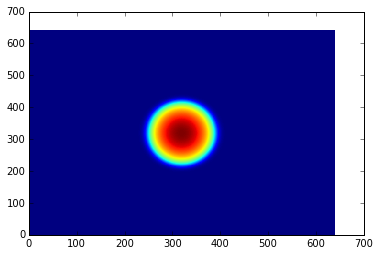
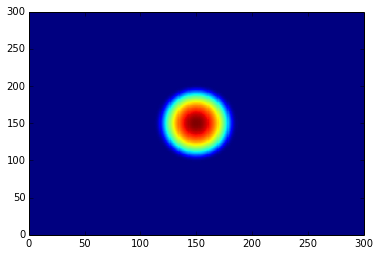
Python and API tutorials updated to the new code.

diff --git a/src/Python/doc/source/examples.rst b/src/Python/doc/source/examples.rst
@@ -11,32 +11,25 @@ The following code block gives a simple example of initializing a state and calc
     import numpy as np
     from trottersuzuki import *
 
-    # create a 2D lattice
-    grid = Lattice(256, 15, 15)
-
-    # define an symmetric harmonic potential with unit frequecy
-    potential = HarmonicPotential(grid, 1, 1)
-
-    # define the Hamiltonian:
+    grid = Lattice(256, 15)  # create a 2D lattice
+    
+    potential = HarmonicPotential(grid, 1, 1)  # define an symmetric harmonic potential with unit frequecy
     particle_mass = 1.
-    hamiltonian = Hamiltonian(grid, potential, particle_mass)
+    hamiltonian = Hamiltonian(grid, potential, particle_mass)      # define the Hamiltonian:
 
-    # define gaussian wave function state: we choose the ground state of the Hamiltonian
     frequency = 1
-    state = GaussianState(grid, frequency)
+    state = GaussianState(grid, frequency)  # define gaussian wave function state: we choose the ground state of the Hamiltonian
 
-    # define the solver
     time_of_single_iteration = 1.e-4
-    solver = Solver(grid, state, hamiltonian, time_of_single_iteration)
+    solver = Solver(grid, state, hamiltonian, time_of_single_iteration)  # define the solver
 
     # get some expected values from the initial state
     print "norm: ", solver.get_squared_norm()
     print "Total energy: ", solver.get_total_energy()
     print "Kinetic energy: ", solver.get_kinetic_energy()
 
-    # evolve the state of 1000 iterations
     number_of_iterations = 1000
-    solver.evolve(number_of_iterations)
+    solver.evolve(number_of_iterations)  # evolve the state of 1000 iterations
 
     # get some expected values from the evolved state
     print "norm: ", solver.get_squared_norm()
@@ -52,38 +45,57 @@ Imaginary time evolution to approximate the ground-state energy
     import numpy as np
     from trottersuzuki import *
 
-    # create a 2D lattice
-    grid = Lattice(256, 15, 15)
+    grid = Lattice(256, 15)  # create a 2D lattice
 
-    # define an symmetric harmonic potential with unit frequecy
-    potential = HarmonicPotential(grid, 1, 1)
-
-    # define the Hamiltonian:
+    potential = HarmonicPotential(grid, 1, 1)  # define an symmetric harmonic potential with unit frequecy
     particle_mass = 1.
-    hamiltonian = Hamiltonian(grid, potential, particle_mass)
+    hamiltonian = Hamiltonian(grid, potential, particle_mass)  # define the Hamiltonian:
 
-    # define gaussian wave function state: we choose the ground state of the Hamiltonian
     frequency = 3
-    state = GaussianState(grid, frequency)
+    state = GaussianState(grid, frequency)  # define gaussian wave function state: we choose the ground state of the Hamiltonian
 
-    # define the solver
     time_of_single_iteration = 1.e-4
-    solver = Solver(grid, state, hamiltonian, time_of_single_iteration)
+    solver = Solver(grid, state, hamiltonian, time_of_single_iteration)  # define the solver
 
     # get some expected values from the initial state
     print "norm: ", solver.get_squared_norm()
     print "Total energy: ", solver.get_total_energy()
     print "Kinetic energy: ", solver.get_kinetic_energy()
 
-    # evolve the state of 40000 iterations
     number_of_iterations = 40000
     imaginary_evolution = true
-    solver.evolve(number_of_iterations, imaginary_evolution)
+    solver.evolve(number_of_iterations, imaginary_evolution)      # evolve the state of 40000 iterations
 
     # get some expected values from the evolved state
     print "norm: ", solver.get_squared_norm()
     print "Total energy: ", solver.get_total_energy()
     print "Kinetic energy: ", solver.get_kinetic_energy()
+
+
+Imprinting of a vortex in a Bose-Einstein Condensate
+----------------------------------------------------
+
+    import numpy as np
+    import trottersuzuki as ts
+
+    grid = ts.Lattice(256, 15)  # create a 2D lattice
+    
+    potential = HarmonicPotential(grid, 1, 1)  # define an symmetric harmonic potential with unit frequecy
+    particle_mass = 1.
+    coupling_intra_particle_interaction = 100.
+    hamiltonian = Hamiltonian(grid, potential, particle_mass, coupling_intra_particle_interaction)  # define the Hamiltonian:
+    
+    frequency = 1
+    state = GaussianState(grid, frequency)  # define gaussian wave function state: we choose the ground state of the Hamiltonian
+    def vortex(x, y):  # vortex to be imprinted
+        z = x + 1j*y
+        angle = np.angle(z)
+        return np.exp(1j * angle)
+    
+    state.imprint(vortex)  # imprint the vortex on the condensate
+    
+    time_of_single_iteration = 1.e-4
+    solver = Solver(grid, state, hamiltonian, time_of_single_iteration)  # define the solver
 
 
 Dark Soliton Generation in Bose-Einstein Condensate using Phase Imprinting
@@ -96,108 +108,31 @@ This example simulates the evolution of a dark soliton in a Bose-Einstein Conden
     import numpy as np
     import trottersuzuki as ts
     from matplotlib import pyplot as plt
-
-
-    def get_external_potential(dim):
-        """Helper function to define external potential.
-        """
-        def ext_pot(_x, _y):
-            x = (_x - dim*0.5) * delta_x
-            y = (_y - dim*0.5) * delta_y
-            w_x = 1
-            w_y = 1 / np.sqrt(2)
-            return 0.5 * (w_x*w_x * x*x + w_y*w_y * y*y)
-
-        potential = np.zeros((dim, dim))
-        for y in range(0, dim):
-            for x in range(0, dim):
-                potential[y, x] = ext_pot(x, y)
-        return potential
-
-    # lattice parameters
-    dim = 640			# number of grid points at the edge
-    length = 50.			# physics length of the lattice
-    delta_x = length / dim
-    delta_y = length / dim
-
-    # Hamiltonian parameter
-    particle_mass = 1
-    scattering_lenght_2D = 5.662739242e-5
-    num_particles = 1700000
-    coupling_const = 4. * np.pi * scattering_lenght_2D * num_particles
-
-    external_potential = get_external_potential(dim)
-
-    ####################################
-    # Ground state approximation
-    ####################################
-
-    # initial state
-    p_real = np.ones((dim, dim))
-    p_imag = np.zeros((dim, dim))
-    for y in range(dim):
-        for x in range(dim):
-            p_real[y, x] = 1./length
-
-    Norm2 = ts.calculate_norm2(p_real, p_imag, delta_x, delta_y)
-    print(Norm2)
-
-    # evolution variables
-    iterations = 18000
-    delta_t = 1.e-4
-
-    # launch evolution
-    ts.evolve(p_real, p_imag, particle_mass, external_potential, delta_x, delta_y,
-              delta_t, iterations, coupling_const=coupling_const, imag_time=True)
-
-    Norm2 = ts.calculate_norm2(p_real, p_imag, delta_x, delta_y)
-    print(Norm2)
-
-    heatmap = plt.pcolor(p_real)
+    
+    grid = ts.Lattice(300, 50.)  # # create a 2D lattice
+    
+    potential = ts.HarmonicPotential(grid, 1., 1./np.sqrt(2.))  # create an harmonic potential
+    coupling = 1.2097e3
+    hamiltonian = ts.Hamiltonian(grid, potential, 1., coupling)  # create the Hamiltonian
+    
+    state = ts.GaussianState(grid, 0.05)  # create the initial state
+    solver = ts.Solver(grid, state, hamiltonian, 1.e-4)  # initialize the solver
+    solver.evolve(10000, True)  # evolve the state towards the ground state
+    
+    density = state.get_particle_density()
+    plt.pcolor(density)  # plot the particle denisity
     plt.show()
-
-    ####################################
-    # Phase imprinting
-    ####################################
-
-    a = 1.98128
-    theta = 1.5 * np.pi
-
-    for y in range(dim):
-        for x in range(dim):
-            tmp_real = np.cos(theta * 0.5 * (1.+np.tanh(-a * (x-dim/2.)*delta_x)))
-            tmp_imag = np.sin(theta * 0.5 * (1.+np.tanh(-a * (x-dim/2.)*delta_x)))
-            tmp = p_real[y, x]
-            p_real[y, x] = tmp_real * tmp - tmp_imag * p_imag[y, x]
-            p_imag[y, x] = tmp_real * p_imag[y, x] + tmp_imag * tmp
-
-    np.savetxt('InistatePhaseImprinted_real.dat', p_real, delimiter=' ')
-    np.savetxt('InistatePhaseImprinted_imag.dat', p_imag, delimiter=' ')
-
-    heatmap = plt.pcolor(p_real)
-    plt.show()
-
-    ####################################
-    # Real time evolution
-    ####################################
-
-    # evolution variables
-    iterations = 2000
-    delta_t = 5.e-5
-    kernel_type = 0
-
-    # launch evolution
-    ts.evolve(p_real, p_imag, particle_mass, external_potential,
-              delta_x, delta_y, delta_t, iterations, coupling_const=coupling_const)
-
-    # calculate particle density
-    norm_2 = np.ones((dim, dim))
-    for y in range(dim):
-        for x in range(dim):
-            norm_2[y, x] = (p_real[y, x] * p_real[y, x] +
-                            p_imag[y, x] * p_imag[y, x]) * num_particles
-
-    heatmap = plt.pcolor(norm_2)
+    
+    def dark_soliton(x,y):  # define phase imprinting that will create the dark soliton
+        a = 1.98128
+        theta = 1.5*np.pi
+        return np.exp(1j* (theta * 0.5 * (1. + np.tanh(-a * x))))
+    
+    state.imprint(dark_soliton)  # phase imprinting
+    solver.evolve(1000)  # perform a real time evolution
+    
+    density = state.get_particle_density()
+    plt.pcolor(density)  # plot the particle denisity
     plt.show()
 
 The results are the following plots:
@@ -205,5 +140,3 @@ The results are the following plots:
 .. image:: figures/bec1.png
 
 .. image:: figures/bec2.png
-
-.. image:: figures/bec3.png

diff --git a/doc/tutorial.md b/doc/tutorial.md
@@ -63,7 +63,7 @@ This example uses all cores on a single computer to calculate the total energy a
 ~~~~~~~~~~~~~~~{.cpp}
 double particle_mass = 1.;
 int dimension = 500.;
-double length_x = double(dimension), length_y = double(dimension);
+double length = double(dimension);
 double delta_t = 0.01;
 int iterations  = 100;
 ~~~~~~~~~~~~~~~
@@ -71,7 +71,7 @@ int iterations  = 100;
 The next step is the define the lattice, the state, and the Hamiltonian:
 
 ~~~~~~~~~~~~~~~{.cpp}
-Lattice *grid = new Lattice(dimension, length_x, length_y);
+Lattice *grid = new Lattice(dimension, length);
 State *state = new SinusoidState(grid, 1, 1);
 Hamiltonian *hamiltonian = new Hamiltonian(grid, NULL, particle_mass);
 ~~~~~~~~~~~~~~~
@@ -115,11 +115,11 @@ The following file, `simple_example.cpp`, summarizes the above:
 int main(int argc, char** argv) {
     double particle_mass = 1.;
     int dimension = 500.;
-    double length_x = double(dimension), length_y = double(dimension);
+    double length = double(dimension);
     double delta_t = 0.01;
     int iterations  = 100;
 
-    Lattice *grid = new Lattice(dimension, length_x, length_y);
+    Lattice *grid = new Lattice(dimension, length);
     State *state = new SinusoidState(grid, 1, 1);
     Hamiltonian *hamiltonian = new Hamiltonian(grid, NULL, particle_mass);
     Solver *solver = new Solver(grid, state, hamiltonian, delta_t);
@@ -170,11 +170,11 @@ int main(int argc, char** argv) {
 #endif  
     double particle_mass = 1.;
     int dimension = 500.;
-    double length_x = double(dimension), length_y = double(dimension);
+    double length = double(dimension);
     double delta_t = 0.01;
     int iterations  = 100;
 
-    Lattice *grid = new Lattice(dimension, length_x, length_y);
+    Lattice *grid = new Lattice(dimension, length);
     State *state = new SinusoidState(grid, 1, 1);
     Hamiltonian *hamiltonian = new Hamiltonian(grid, NULL, particle_mass);
     Solver *solver = new Solver(grid, state, hamiltonian, delta_t);
